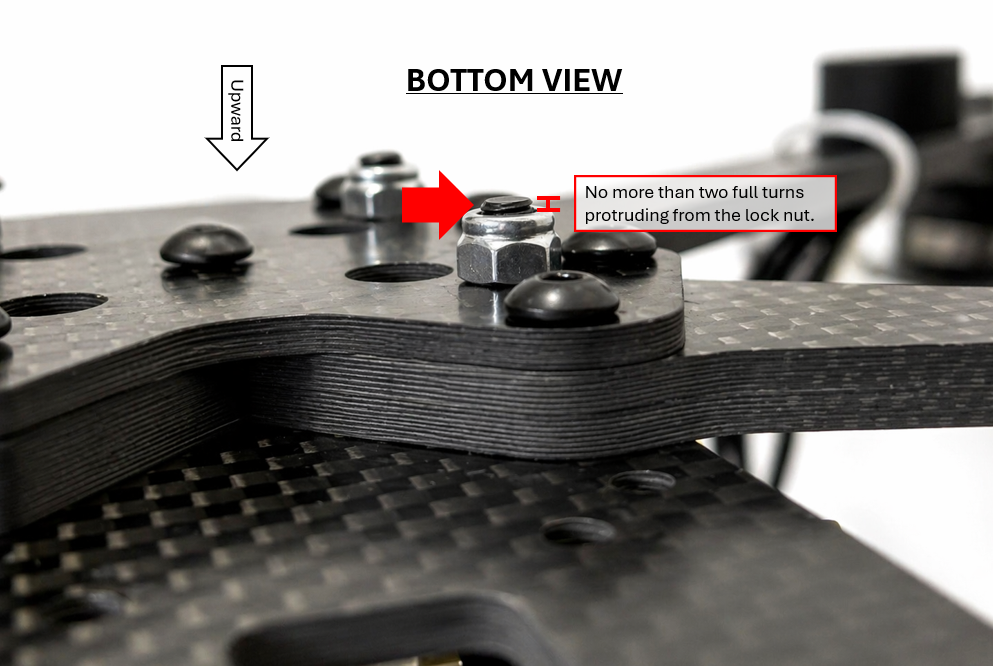
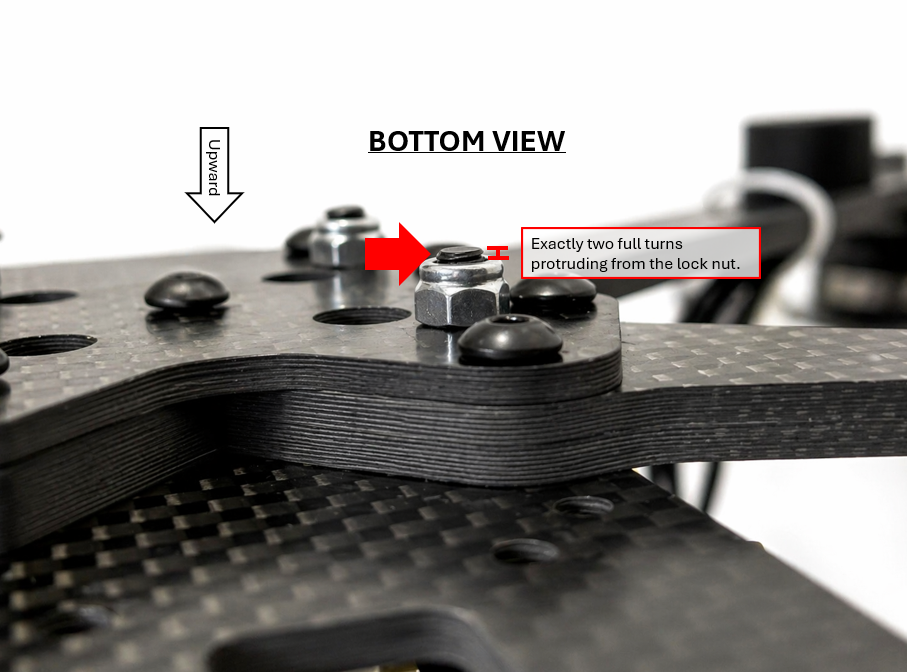
Revised Task 6 wording to have exact screw insertion for the fc/esc stack

diff --git a/task6-mount-fc-esc.html b/task6-mount-fc-esc.html
@@ -77,7 +77,7 @@
         <li>Insert the four M3 × 30 mm round-head screws from the frame kit through the silicone dampers, top to bottom, by hand.</li>
         <li>Start the four M3 nylon-insert lock nuts from the <strong>FC/ESC Stack</strong> subkit on the bottom of the frame. Finger-tighten only.</li>
         <li>Using the 5.5 mm nut driver on the nuts and the 2.5 mm Allen key on the screw heads, tighten in a crisscross pattern.</li>
-        <li>From the bottom view, stop when no more than two full turns protrude from each lock nut, as shown in Fig. 6h.</li>
+        <li>From the bottom view, stop when exactly two full turns protrude from each lock nut, as shown in Fig. 6h.</li>
       </ol>
       <div class="callout step-note"><strong>Why this matters.</strong><br>The dampers are very flexible. Without a fixed stop point, it is easy to overtighten and damage them before you realize it.</div>
     </div>
